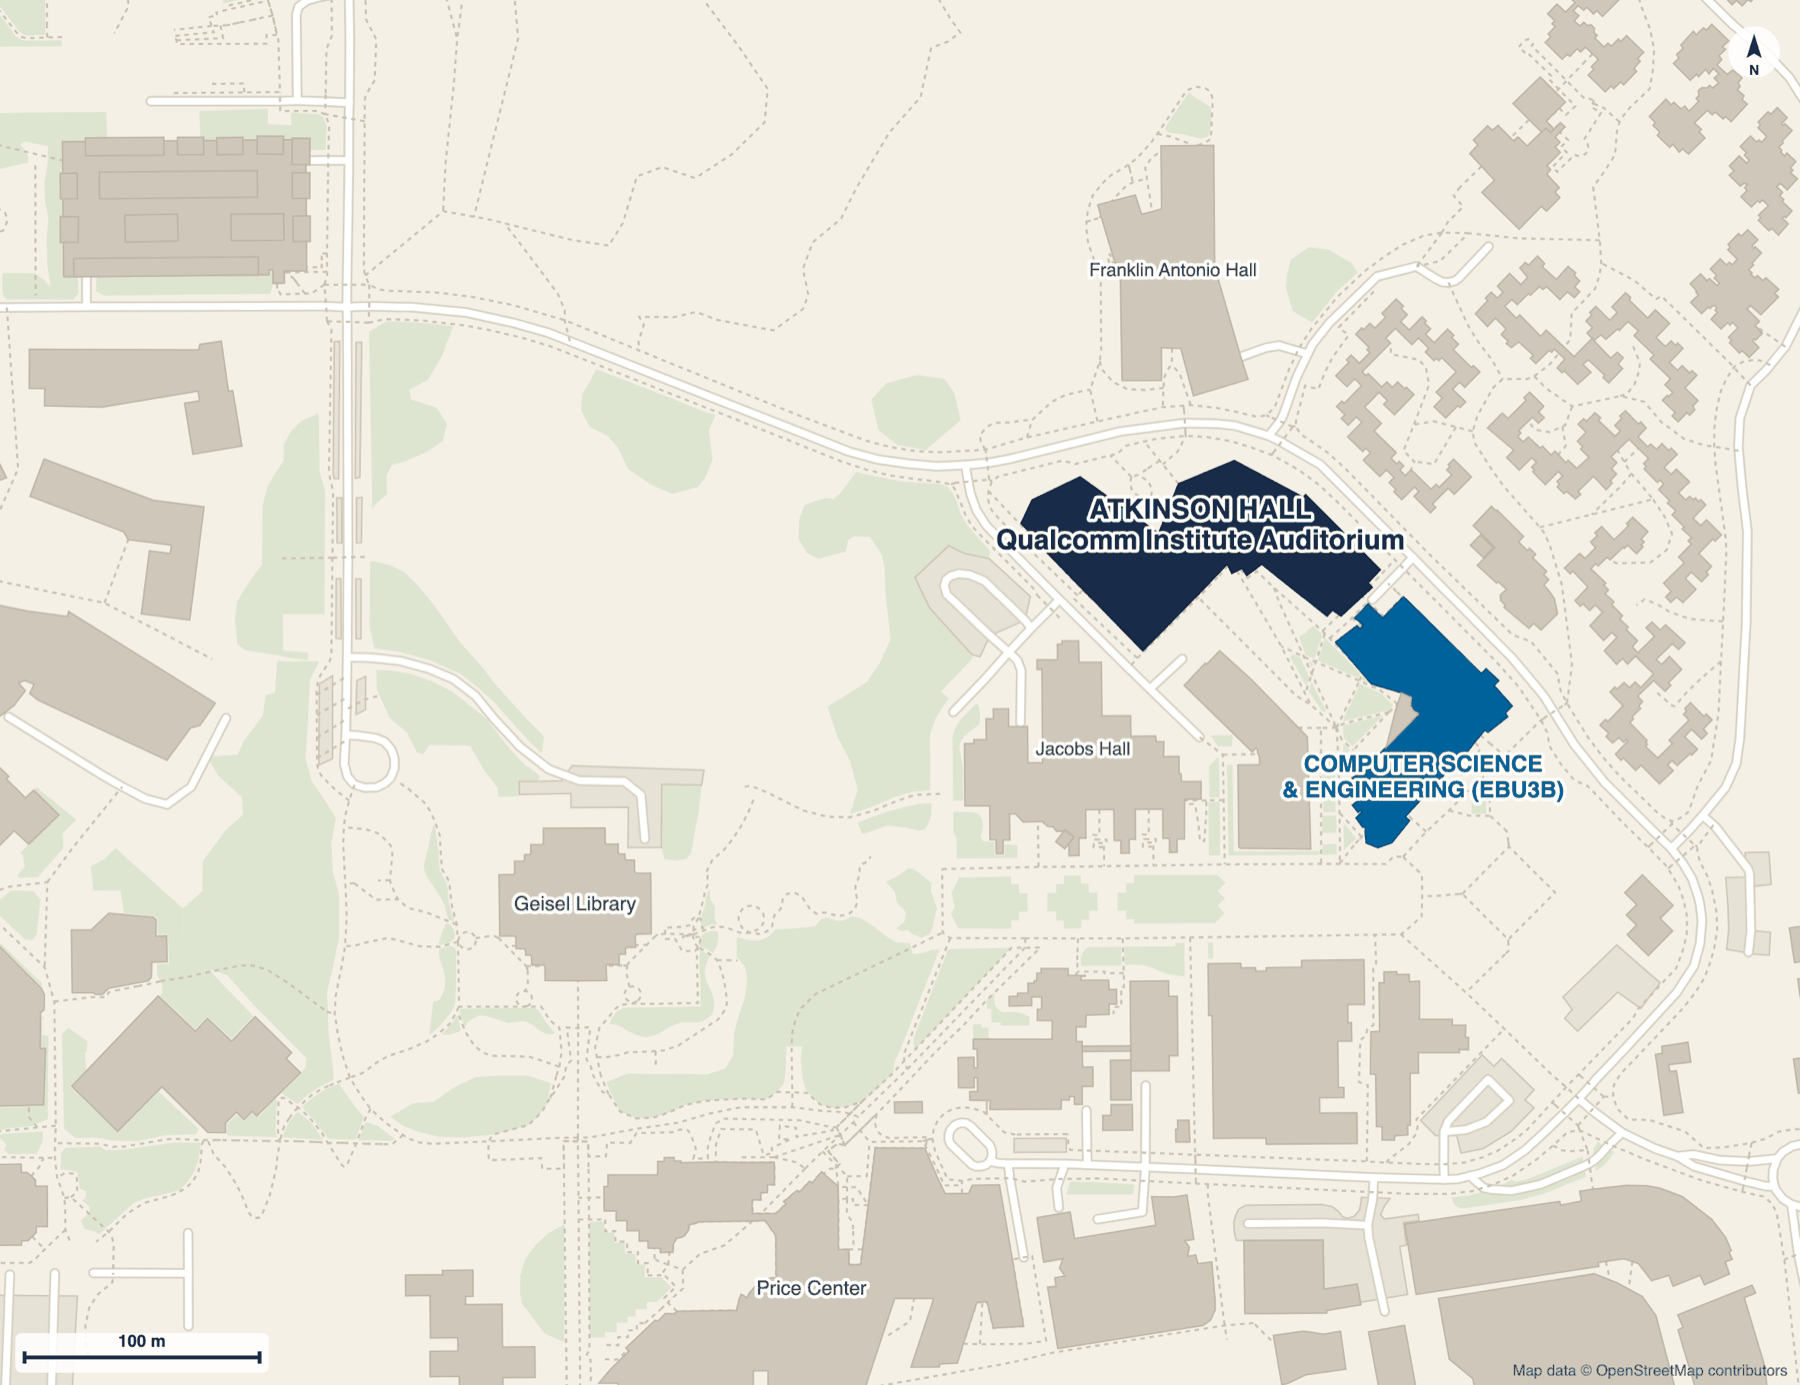
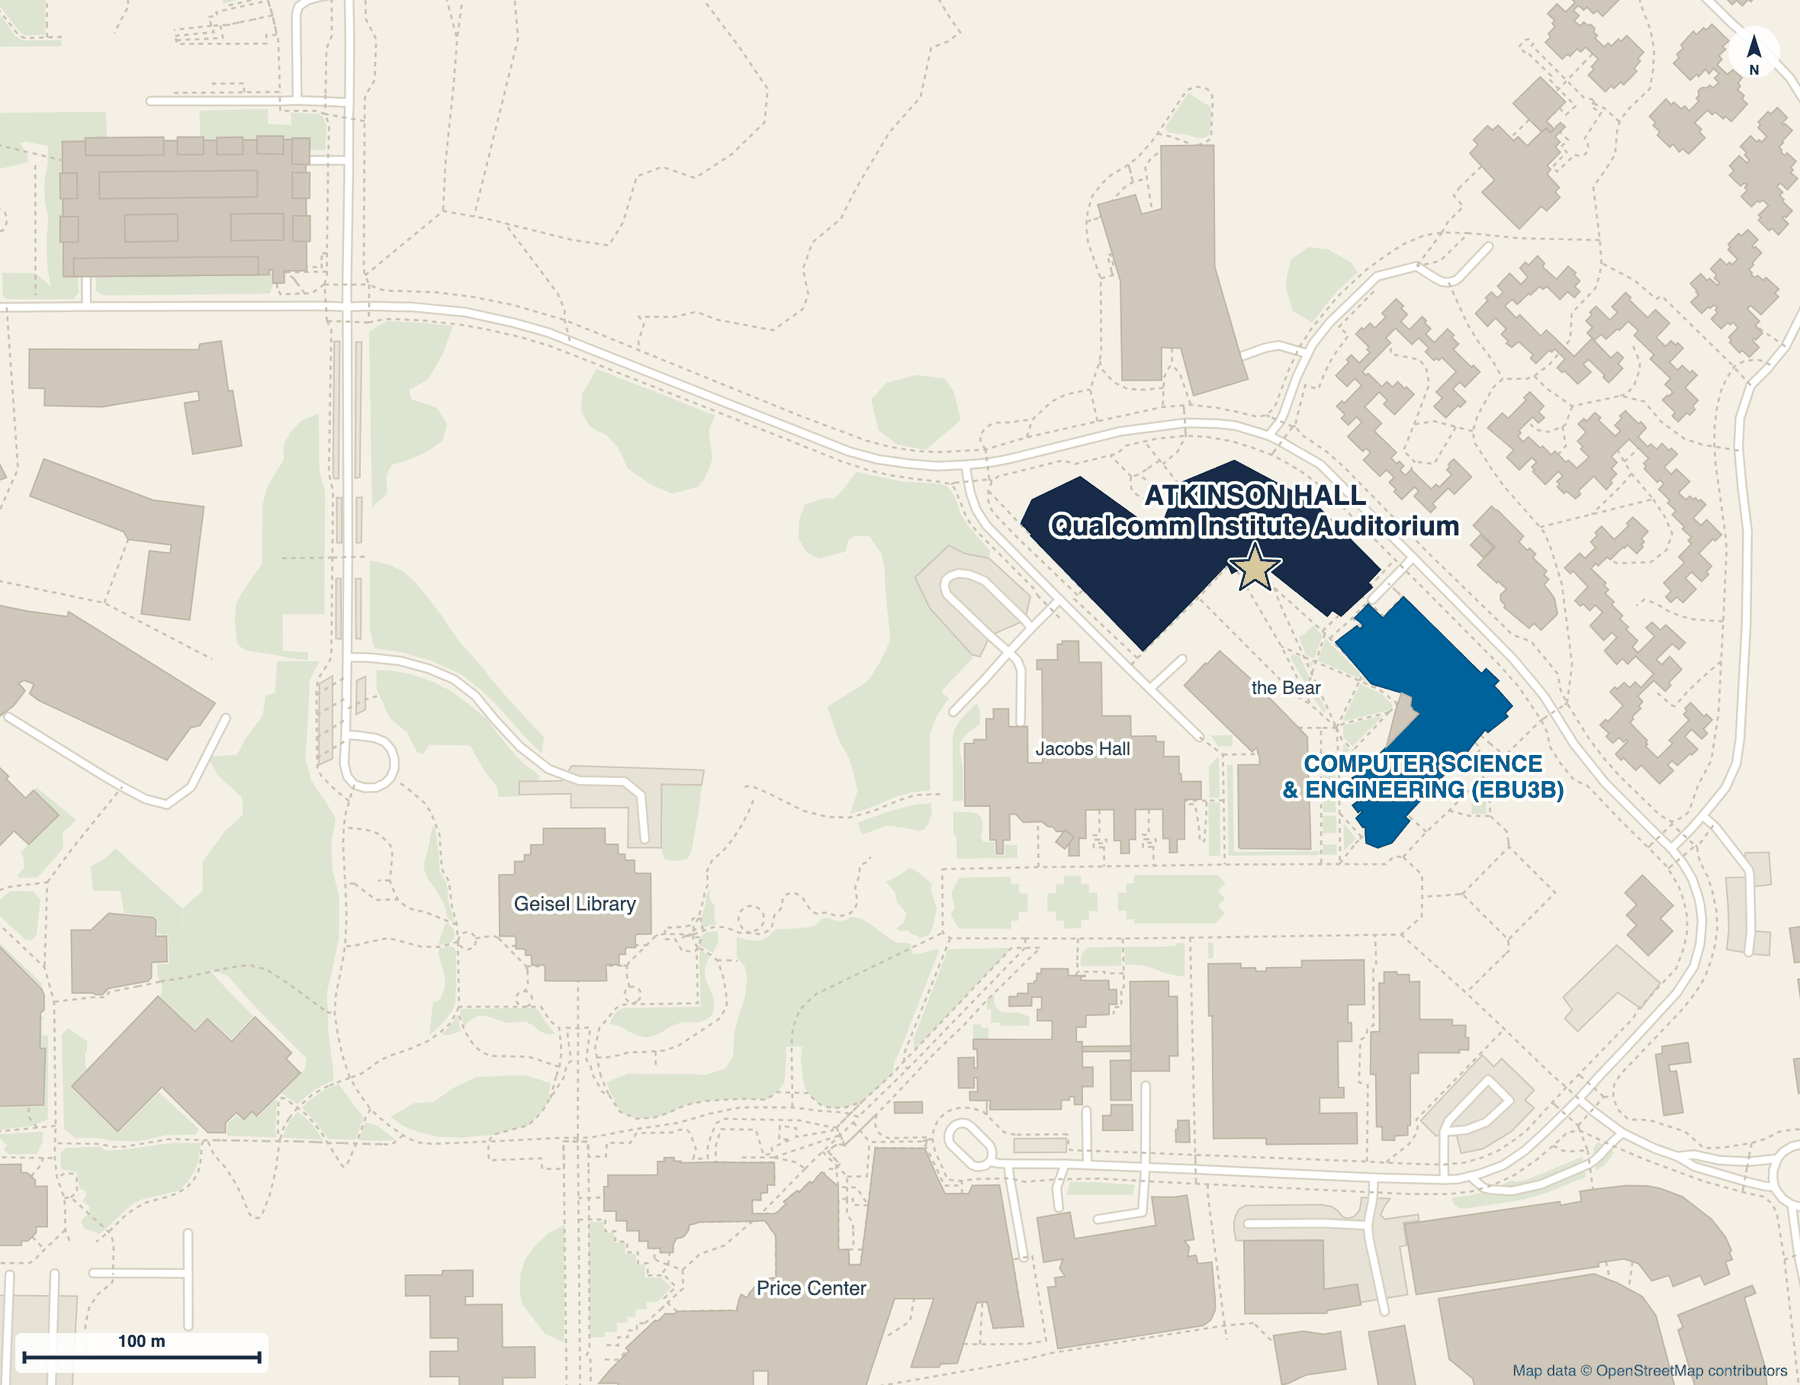
Split directions into separate student and speaker pages
Speakers no longer have to read past the student information to find parking,
so each page opens straight into what that reader needs. Both get a full-size
page heading rather than the small section label used before.

Map changes:
  - stars mark the destinations, so the routes no longer read as a path from
    one parking area to another
  - a short blue route runs from the auditorium to the CSE main entrance, with
    the entrance labelled
  - the chair's office is starred at its real position: OSM has indoor mapping
    of EBU3B, giving name="Chair's office" ref=2266 on level 1

The home page now offers both destinations as separate buttons in the band, and
each page cross-links to the other.

NOTE: the auditorium star currently sits on Atkinson Hall's OSM-tagged main
entrance, since the auditorium itself is not mapped indoors. Awaiting exact
coordinates.

diff --git a/assets/css/site.css b/assets/css/site.css
@@ -258,11 +258,16 @@ a:hover { color: var(--accent-hover); }
 
 /* Sits inside the band, so it needs to read against navy rather than the page.
    Yellow on navy is 9.45:1 and navy on yellow 9.45:1 — AA either way. */
+.logistics__actions {
+  display: flex;
+  flex-wrap: wrap;
+  gap: var(--space-3);
+  margin-top: var(--space-6);
+}
 .logistics__cta {
   display: inline-flex;
   align-items: center;
   gap: var(--space-2);
-  margin-top: var(--space-6);
   padding: var(--space-3) var(--space-5);
   border-radius: var(--radius-pill);
   background: var(--band-accent);
@@ -282,6 +287,26 @@ a:hover { color: var(--accent-hover); }
 }
 .logistics__cta:hover span { transform: translateX(3px); }
 .logistics__cta:focus-visible { outline-color: var(--band-accent); }
+
+/* Secondary action — outlined so the two buttons do not compete.
+   Band ink on navy is the same pair as the body text in this box. */
+.logistics__cta--ghost {
+  background: transparent;
+  color: var(--band-ink);
+  box-shadow: inset 0 0 0 var(--rule-weight) var(--band-accent);
+}
+.logistics__cta--ghost:hover {
+  background: var(--band-accent);
+  color: var(--band);
+}
+
+/* Cross-link between the two directions pages. */
+.page-aside {
+  margin: var(--space-7) 0 0;
+  padding-top: var(--space-5);
+  border-top: var(--rule-weight) solid var(--rule);
+  color: var(--muted);
+}
 .logistics__label {
   font-family: var(--font-sans);
   font-weight: 900;
@@ -528,6 +553,7 @@ a:hover { color: var(--accent-hover); }
   .talk__when { flex-direction: row; align-items: baseline; gap: var(--space-3); flex-wrap: wrap; }
   .talk__date { font-size: 1.25rem; }
   .logistics { padding: var(--space-5); }
+  .logistics__actions { flex-direction: column; }
   .logistics__cta { display: flex; justify-content: center; width: 100%; }
 }
 

diff --git a/index.html b/index.html
@@ -27,9 +27,14 @@ layout: default
       </div>
       {%- endfor %}
     </div>
-    <a class="logistics__cta" href="{{ '/finding-the-seminar/' | relative_url }}">
-      Maps, parking and directions <span aria-hidden="true">&rarr;</span>
-    </a>
+    <div class="logistics__actions">
+      <a class="logistics__cta" href="{{ '/finding-the-seminar/' | relative_url }}">
+        Finding the seminar <span aria-hidden="true">&rarr;</span>
+      </a>
+      <a class="logistics__cta logistics__cta--ghost" href="{{ '/for-speakers/' | relative_url }}">
+        Directions for speakers <span aria-hidden="true">&rarr;</span>
+      </a>
+    </div>
   </div>
   {%- endif %}
 </section>

diff --git a/_layouts/default.html b/_layouts/default.html
@@ -49,6 +49,7 @@
   <a class="masthead__name" href="{{ '/' | relative_url }}">{{ course.title }}</a>
   <nav class="masthead__nav">
     <a href="{{ '/finding-the-seminar/' | relative_url }}">Finding the Seminar</a>
+    <a href="{{ '/for-speakers/' | relative_url }}">For Speakers</a>
   </nav>
   <a class="masthead__logo" href="https://ucsd.edu" aria-label="UC San Diego">
     <img src="{{ '/assets/img/logos/ucsd-logo-blue.svg' | relative_url }}" alt="UC San Diego" width="289" height="55">

diff --git a/finding-the-seminar.md b/finding-the-seminar.md
@@ -8,86 +8,33 @@ permalink: /finding-the-seminar/
 <h1 class="page-title">Finding the Seminar</h1>
 
 <p class="page-lead">The seminar meets in the <strong>Qualcomm Institute Auditorium</strong>, on the ground
-floor of <strong>Atkinson Hall</strong> at UC San Diego — the building next to the bear sculpture.</p>
-
-<h2 class="section-title">For Students</h2>
+floor of <strong>Atkinson Hall</strong> — the building by the bear sculpture.
+Mondays, 11:00–11:50 am.</p>
 
 <figure class="figure">
   <img src="{{ '/assets/img/maps/atkinson-campus-location.png' | relative_url }}"
-       alt="Campus map showing Atkinson Hall in dark blue with the Qualcomm Institute Auditorium, and the Computer Science and Engineering building (EBU3B) in blue just to the southeast. Geisel Library, Price Center, Jacobs Hall and Franklin Antonio Hall are marked for orientation."
+       alt="Campus map with a star marking the Qualcomm Institute Auditorium in Atkinson Hall, shown in dark blue. The Computer Science and Engineering building (EBU3B) is in blue just to the southeast. The Bear sculpture, Geisel Library, Price Center and Jacobs Hall are marked for orientation."
        width="1800" height="1385" loading="lazy">
-  <figcaption>Atkinson Hall (dark blue) and the Computer Science &amp; Engineering building, EBU3B (blue).</figcaption>
+  <figcaption>The star marks the auditorium. Atkinson Hall is dark blue; the Computer Science &amp; Engineering building, EBU3B, is blue.</figcaption>
 </figure>
 
 <div class="prose" markdown="1">
 
-Atkinson Hall is on the north side of the engineering quad, a few minutes' walk
-from Geisel Library. If you know the **Computer Science & Engineering building
-(EBU3B)**, Atkinson Hall is the building immediately northwest of it — the two
-are adjacent, and are officially EBU3a and EBU3b.
+Atkinson Hall sits on the north side of the engineering quad, a few minutes' walk
+from Geisel Library. If you already know the **Computer Science & Engineering
+building (EBU3B)**, Atkinson Hall is right next door to the northwest — the two
+are officially EBU3a and EBU3b.
 
-Look for the **bear sculpture** outside; the auditorium entrance is on the ground floor.
+The **bear sculpture** is the easiest landmark. The auditorium is on the ground floor.
 
 **No food or drink other than water** is allowed in the auditorium.
 
 </div>
 
-<h2 class="section-title">For Speakers</h2>
+<p class="page-aside">Speaking at the seminar?
+<a href="{{ '/for-speakers/' | relative_url }}">Directions, parking and rideshare for speakers &rarr;</a></p>
 
-<figure class="figure">
-  <img src="{{ '/assets/img/maps/atkinson-parking-and-walking.png' | relative_url }}"
-       alt="Map showing walking routes in gold from the Hopkins Parking Structure and from Lot 503 to Atkinson Hall. Atkinson Hall is dark blue, the Computer Science and Engineering building EBU3B is blue, and the Hopkins Parking Structure is gold."
-       width="1800" height="888" loading="lazy">
-  <figcaption>Walking routes from both parking areas to Atkinson Hall. Routes follow the campus footpath network.</figcaption>
-</figure>
-
-<div class="prose" markdown="1">
-
-### Parking
-
-Two options, both shown above:
-
-| | Walk to the auditorium |
-|---|---|
-| **Lot 503** — the small lot just west of Atkinson Hall | about **2 minutes** (150 m) |
-| **Hopkins Parking Structure** — larger, more likely to have space | about **6 minutes** (475 m) |
-
-Park in spaces marked with a **white V** (visitor). Pay through the **ParkMobile**
-app using **zone 4752**, or at the pay kiosk by the **7th-floor elevators** in the
-Hopkins structure.
-
-Rates at last check: first 30 minutes free, then $4.20/hour, $33.60 daily maximum.
-After 5 PM and on weekends, $2.10/hour with an $8.40 maximum. *Rates and zones
-change — please confirm at the kiosk when you arrive.*
-
-### Arriving by Uber or Lyft
-
-Set your destination to **Atkinson Hall, UC San Diego**. Campus building names
-confuse some drivers, so this link drops a pin on the exact spot:
-
-**[Navigate to Atkinson Hall &rarr;](https://www.google.com/maps/dir/?api=1&destination=32.8824734%2C-117.2347302)**
-
-You can also paste the coordinates `32.8824734, -117.2347302` directly into Uber
-or Lyft. The campus mailing address, 9500 Gilman Drive, will *not* get you to the
-right building.
-
-### Where we'll meet
-
-Depending on what we arranged by email, we will meet either **at the auditorium**
-in Atkinson Hall, or **at the chair's office** in the Computer Science &
-Engineering building.
-
-To find the chair's office — **room 266**:
-
-1. Go in the **front entrance** of the Computer Science & Engineering building (EBU3B, the blue building on the map).
-2. Go **up the stairs**.
-3. It is on your **left**, toward the big sign reading *Computer Science and Engineering*.
-
-If you get lost, call or email and we will come find you.
-
-</div>
-
-<p class="map-credit">Maps rendered from <a href="https://www.openstreetmap.org/copyright">OpenStreetMap</a> data,
+<p class="map-credit">Map rendered from <a href="https://www.openstreetmap.org/copyright">OpenStreetMap</a> data,
 &copy; OpenStreetMap contributors.</p>
 
 </section>

diff --git a/for-speakers.md b/for-speakers.md
@@ -1,0 +1,73 @@
+---
+layout: default
+title: Directions for Speakers
+permalink: /for-speakers/
+---
+
+<section class="wrap section">
+<h1 class="page-title">Directions for Speakers</h1>
+
+<p class="page-lead">Thank you for speaking. Everything you need to get here is on this page — parking,
+rideshare, and where we will meet.</p>
+
+<figure class="figure">
+  <img src="{{ '/assets/img/maps/atkinson-parking-and-walking.png' | relative_url }}"
+       alt="Map showing gold walking routes from the Hopkins Parking Structure and from Lot 503 to a star marking the Qualcomm Institute Auditorium in Atkinson Hall, and a short blue route from the auditorium to the main entrance of the Computer Science and Engineering building, where a second star marks the chair's office in room 266."
+       width="1800" height="888" loading="lazy">
+  <figcaption>Gold routes run from each parking area to the auditorium (star). The short blue route
+  runs from the auditorium to the main entrance of the Computer Science &amp; Engineering
+  building; the second star is the chair's office. Routes follow the campus footpath network.</figcaption>
+</figure>
+
+<div class="prose" markdown="1">
+
+## Parking
+
+| | Walk to the auditorium |
+|---|---|
+| **Lot 503** — small lot just west of Atkinson Hall | about **3 minutes** (250 m) |
+| **Hopkins Parking Structure** — larger, more likely to have space | about **7 minutes** (560 m) |
+
+Park in spaces marked with a **white V** (visitor). Pay through the **ParkMobile**
+app using **zone 4752**, or at the pay kiosk by the **7th-floor elevators** in the
+Hopkins structure.
+
+Rates at last check: first 30 minutes free, then $4.20/hour, $33.60 daily maximum.
+After 5 PM and on weekends, $2.10/hour with an $8.40 maximum. *Rates and zones
+change — please confirm at the kiosk when you arrive.*
+
+## Arriving by Uber or Lyft
+
+Set your destination to **Atkinson Hall, UC San Diego**. Campus building names
+confuse some drivers, so this link drops a pin on the exact spot:
+
+**[Navigate to Atkinson Hall &rarr;](https://www.google.com/maps/dir/?api=1&destination=32.8824734%2C-117.2347302)**
+
+You can also paste the coordinates `32.8824734, -117.2347302` straight into Uber
+or Lyft. The campus mailing address, 9500 Gilman Drive, will *not* get you to the
+right building.
+
+## Where we'll meet
+
+Depending on what we arranged by email, we will meet either **at the auditorium**
+in Atkinson Hall, or **at the chair's office** in the Computer Science &
+Engineering building — both starred on the map.
+
+To find the chair's office, **room 266**:
+
+1. Go in the **main entrance** of the Computer Science & Engineering building (EBU3B, the blue building).
+2. Go **up the stairs**.
+3. It is on your **left**, toward the big sign reading *Computer Science and Engineering*.
+
+It is about a one-minute walk between the two buildings. If you get lost, call or
+email and we will come find you.
+
+</div>
+
+<p class="page-aside">Looking for the seminar as a student?
+<a href="{{ '/finding-the-seminar/' | relative_url }}">Finding the seminar &rarr;</a></p>
+
+<p class="map-credit">Map rendered from <a href="https://www.openstreetmap.org/copyright">OpenStreetMap</a> data,
+&copy; OpenStreetMap contributors.</p>
+
+</section>
